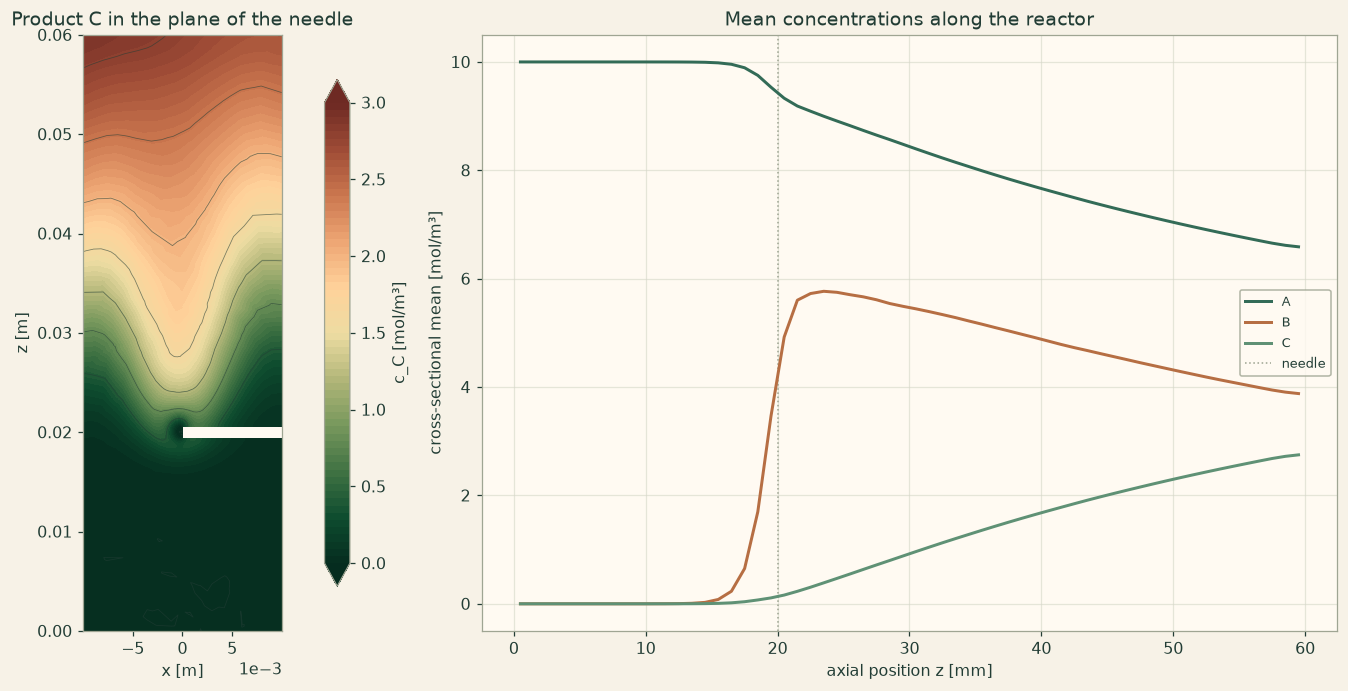
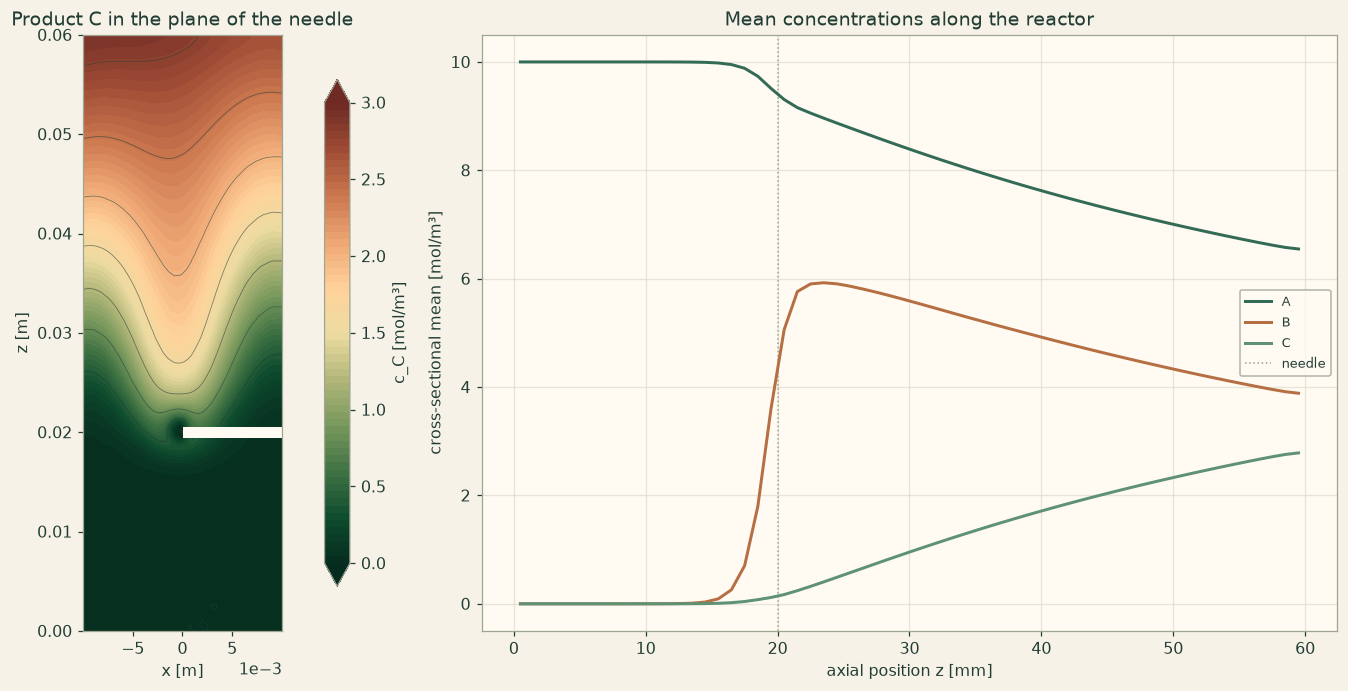
Publish the porous reactor result on 30,026 tetrahedra

diff --git a/examples/notebooks/porous_catalytic_reactor_injection_needle.html b/examples/notebooks/porous_catalytic_reactor_injection_needle.html
@@ -22,7 +22,7 @@
 <div class="layout">
 <details class="menu"><summary>Menu</summary><nav class="side" aria-label="Documentation"><a class="" href="../../index.html">Overview</a><a class="" href="../../quickstart.html">Quickstart</a><p class="group">Examples</p><a class="" href="../../examples/index.html">Example library</a><a class="" href="../../examples/method-swap.html">One model, five discretizations</a><a class="" href="../../examples/cantilever.html">A 3D cantilever</a><a class="" href="../../examples/custom-equation.html">Your own equation</a><p class="group">Guide</p><p class="part">Start here</p><a class="" href="../../guide/how-to-use-this-guide.html"><span class="num"></span> How to use this guide</a><p class="part">Part I · From model to notebook</p><a class="" href="../../guide/1-set-up-the-notebook.html"><span class="num">1</span> Set up the notebook</a><a class="" href="../../guide/2-transient-radiation-and-vibration.html"><span class="num">2</span> Transient radiation and vibration</a><a class="" href="../../guide/3-three-spatial-studies.html"><span class="num">3</span> Three spatial studies</a><a class="" href="../../guide/4-read-visualize-and-export-results.html"><span class="num">4</span> Read, visualize and export results</a><p class="part">Part II · Physics model selection</p><a class="" href="../../guide/5-build-a-first-case-in-each-physics-package/index.html"><span class="num">5</span> Build a first case in each physics package</a><a class="" href="../../guide/6-worked-physics-and-service-recipes/index.html"><span class="num">6</span> Worked physics and service recipes</a><p class="part">Part III · Select and combine numerical methods</p><a class="" href="../../guide/7-numerical-configuration-and-spatial-operators.html"><span class="num">7</span> Numerical configuration and spatial operators</a><a class="" href="../../guide/8-solvers-time-integration-and-coupled-fields.html"><span class="num">8</span> Solvers, time integration and coupled fields</a><a class="" href="../../guide/9-worked-numerical-comparisons/index.html"><span class="num">9</span> Worked numerical comparisons</a><a class="" href="../../guide/10-executable-numerical-recipes/index.html"><span class="num">10</span> Executable numerical recipes</a><a class="" href="../../guide/11-define-and-solve-your-own-equation.html"><span class="num">11</span> Define and solve your own equation</a><a class="" href="../../guide/12-diagnose-a-notebook-result.html"><span class="num">12</span> Diagnose a notebook result</a><a class="" href="../../guide/13-coverage-and-navigation-by-symbol/index.html"><span class="num">13</span> Coverage and navigation by symbol</a><p class="part">API reference</p><a class="" href="../../reference/a-physics-api-reference/index.html"><span class="num">A</span> Physics API reference</a><a class="" href="../../reference/b-numerical-api-reference/index.html"><span class="num">B</span> Numerical API reference</a><a class="" href="../../reference/c-exposed-operator-and-service-namespaces/index.html"><span class="num">C</span> Exposed operator and service namespaces</a><p class="group">Teaching</p><a class="" href="../../teaching/index.html">For instructors</a><a class="" href="../../teaching/course.html">A 14-week lab course</a><a class="" href="../../teaching/exercises.html">Exercise sheets</a><p class="group">Trust and terms</p><a class="" href="../../verification.html">Verification</a><a class="" href="../../plans.html">Plans and licence</a></nav></details>
 <div class="side-wrap"><nav class="side" aria-label="Documentation"><a class="" href="../../index.html">Overview</a><a class="" href="../../quickstart.html">Quickstart</a><p class="group">Examples</p><a class="" href="../../examples/index.html">Example library</a><a class="" href="../../examples/method-swap.html">One model, five discretizations</a><a class="" href="../../examples/cantilever.html">A 3D cantilever</a><a class="" href="../../examples/custom-equation.html">Your own equation</a><p class="group">Guide</p><p class="part">Start here</p><a class="" href="../../guide/how-to-use-this-guide.html"><span class="num"></span> How to use this guide</a><p class="part">Part I · From model to notebook</p><a class="" href="../../guide/1-set-up-the-notebook.html"><span class="num">1</span> Set up the notebook</a><a class="" href="../../guide/2-transient-radiation-and-vibration.html"><span class="num">2</span> Transient radiation and vibration</a><a class="" href="../../guide/3-three-spatial-studies.html"><span class="num">3</span> Three spatial studies</a><a class="" href="../../guide/4-read-visualize-and-export-results.html"><span class="num">4</span> Read, visualize and export results</a><p class="part">Part II · Physics model selection</p><a class="" href="../../guide/5-build-a-first-case-in-each-physics-package/index.html"><span class="num">5</span> Build a first case in each physics package</a><a class="" href="../../guide/6-worked-physics-and-service-recipes/index.html"><span class="num">6</span> Worked physics and service recipes</a><p class="part">Part III · Select and combine numerical methods</p><a class="" href="../../guide/7-numerical-configuration-and-spatial-operators.html"><span class="num">7</span> Numerical configuration and spatial operators</a><a class="" href="../../guide/8-solvers-time-integration-and-coupled-fields.html"><span class="num">8</span> Solvers, time integration and coupled fields</a><a class="" href="../../guide/9-worked-numerical-comparisons/index.html"><span class="num">9</span> Worked numerical comparisons</a><a class="" href="../../guide/10-executable-numerical-recipes/index.html"><span class="num">10</span> Executable numerical recipes</a><a class="" href="../../guide/11-define-and-solve-your-own-equation.html"><span class="num">11</span> Define and solve your own equation</a><a class="" href="../../guide/12-diagnose-a-notebook-result.html"><span class="num">12</span> Diagnose a notebook result</a><a class="" href="../../guide/13-coverage-and-navigation-by-symbol/index.html"><span class="num">13</span> Coverage and navigation by symbol</a><p class="part">API reference</p><a class="" href="../../reference/a-physics-api-reference/index.html"><span class="num">A</span> Physics API reference</a><a class="" href="../../reference/b-numerical-api-reference/index.html"><span class="num">B</span> Numerical API reference</a><a class="" href="../../reference/c-exposed-operator-and-service-namespaces/index.html"><span class="num">C</span> Exposed operator and service namespaces</a><p class="group">Teaching</p><a class="" href="../../teaching/index.html">For instructors</a><a class="" href="../../teaching/course.html">A 14-week lab course</a><a class="" href="../../teaching/exercises.html">Exercise sheets</a><p class="group">Trust and terms</p><a class="" href="../../verification.html">Verification</a><a class="" href="../../plans.html">Plans and licence</a></nav></div>
-<main id="content"><p class="crumbs"><a href="../../index.html">Docs</a> › <a href="../../examples/index.html">Examples</a> › Mixing two feeds in a porous catalytic reactor</p><p class="eyebrow">Reacting flow in porous media · 3D</p><h1>Mixing two feeds in a porous catalytic reactor</h1><p class="lead">A side needle injects the second reactant into a packed bed. Follow the plume downstream and measure how much reacts before leaving the bed.</p><div class="chips"><span>STEP import</span><span>Brinkman flow</span><span>Reactive transport</span><span>Mesh study</span></div><p class="note"><strong>Run locally with OneSimulation.</strong> The example downloads are free. Running them requires an activated runtime. Runtime Alpha 0.2.1a8 · CPython 3.13 on macOS (Apple Silicon), Ubuntu 22.04 (x86-64), and Windows x64. <a href="../../quickstart.html#need">Installation and activation</a> · <a href="../../plans.html">View pilot plans</a>. <a href="../../verification.html#scope">Scope of the reference checks</a>.</p><div class="button-row"><a class="button" href="../../notebooks/porous_catalytic_reactor_injection_needle.ipynb" download>Download the notebook (.ipynb)</a><a class="button light" href="../../notebooks/porous_catalytic_reactor_injection_needle.py" download>Download the script (.py)</a><a class="button light" href="../../notebooks/porous_catalytic_reactor_injection_needle.step" download>Download the geometry (.step)</a><a class="button light" href="../../notebooks/porous_catalytic_reactor_injection_needle_geometry.py" download>Download the geometry script (.py)</a></div><figure><a href="../../figures/library/porous_catalytic_reactor_injection_needle.png" aria-label="Open result plot for Mixing two feeds in a porous catalytic reactor at full size" style="display:inline-block;max-width:100%;cursor:zoom-in"><img loading="lazy" src="../../figures/library/porous_catalytic_reactor_injection_needle.png" alt="Mixing two feeds in a porous catalytic reactor"></a><figcaption>Mixing two feeds in a porous catalytic reactor. Run the notebook to produce its own figures.</figcaption></figure><h2 id="what">What it computes</h2><p>The STEP model resolves the bed around the needle. A prescribed jet at its tip feeds a coupled Brinkman flow and three-species transport model. Two meshes test the volume flow, the species flux balances and the integrated reaction rate.</p><h2 id="checks">What it checks</h2><p>The fine mesh converts 29.34% of reactant A, compared with 29.06% on the coarse mesh and 31.29% for ideal premixed plug flow. The outlet volume flow is within 0.65% of the two feeds. The largest fine-mesh species imbalance is 1.18% of the B feed.</p><h2 id="geometry">Geometry</h2><p>Save the STEP file <a href="../../notebooks/porous_catalytic_reactor_injection_needle.step" download><code>porous_catalytic_reactor_injection_needle.step</code></a> next to the notebook before running it.</p><figure><a href="../../figures/library/porous_catalytic_reactor_injection_needle_geometry.png" aria-label="Open geometry for Mixing two feeds in a porous catalytic reactor at full size" style="display:inline-block;max-width:100%;cursor:zoom-in"><img loading="lazy" src="../../figures/library/porous_catalytic_reactor_injection_needle_geometry.png" alt="Geometry of the example: Mixing two feeds in a porous catalytic reactor"></a><figcaption>Geometry used by the notebook.</figcaption></figure><div class="button-row"><a class="button light" href="../../notebooks/porous_catalytic_reactor_injection_needle.step" download>Download the geometry (.step)</a><a class="button light" href="../../notebooks/porous_catalytic_reactor_injection_needle_geometry.py" download>Download the geometry script (.py)</a></div><h3 id="geometry-script">The geometry script</h3><p>The script <a href="../../notebooks/porous_catalytic_reactor_injection_needle_geometry.py" download><code>porous_catalytic_reactor_injection_needle_geometry.py</code></a> builds the geometry with the CAD objects of OneSimulation and writes the file. Change a dimension there, run it, and run the notebook again.</p><div class="notebook"><div class="nb-code"><pre class="code" data-lang="python"><code><span class="sd">&quot;&quot;&quot;Geometry of the OneSimulation example &quot;Porous catalytic reactor with an injection needle&quot;.</span>
+<main id="content"><p class="crumbs"><a href="../../index.html">Docs</a> › <a href="../../examples/index.html">Examples</a> › Mixing two feeds in a porous catalytic reactor</p><p class="eyebrow">Reacting flow in porous media · 3D</p><h1>Mixing two feeds in a porous catalytic reactor</h1><p class="lead">A side needle injects the second reactant into a packed bed. Follow the plume downstream and measure how much reacts before leaving the bed.</p><div class="chips"><span>STEP import</span><span>Brinkman flow</span><span>Reactive transport</span><span>Mesh study</span></div><p class="note"><strong>Run locally with OneSimulation.</strong> The example downloads are free. Running them requires an activated runtime. Runtime Alpha 0.2.1a8 · CPython 3.13 on macOS (Apple Silicon), Ubuntu 22.04 (x86-64), and Windows x64. <a href="../../quickstart.html#need">Installation and activation</a> · <a href="../../plans.html">View pilot plans</a>. <a href="../../verification.html#scope">Scope of the reference checks</a>.</p><div class="button-row"><a class="button" href="../../notebooks/porous_catalytic_reactor_injection_needle.ipynb" download>Download the notebook (.ipynb)</a><a class="button light" href="../../notebooks/porous_catalytic_reactor_injection_needle.py" download>Download the script (.py)</a><a class="button light" href="../../notebooks/porous_catalytic_reactor_injection_needle.step" download>Download the geometry (.step)</a><a class="button light" href="../../notebooks/porous_catalytic_reactor_injection_needle_geometry.py" download>Download the geometry script (.py)</a></div><figure><a href="../../figures/library/porous_catalytic_reactor_injection_needle.png" aria-label="Open result plot for Mixing two feeds in a porous catalytic reactor at full size" style="display:inline-block;max-width:100%;cursor:zoom-in"><img loading="lazy" src="../../figures/library/porous_catalytic_reactor_injection_needle.png" alt="Mixing two feeds in a porous catalytic reactor"></a><figcaption>Mixing two feeds in a porous catalytic reactor. Run the notebook to produce its own figures.</figcaption></figure><h2 id="what">What it computes</h2><p>The STEP model resolves the bed around the needle. A prescribed jet at its tip feeds a coupled Brinkman flow and three-species transport model. Two meshes test the volume flow, the species flux balances and the integrated reaction rate.</p><h2 id="checks">What it checks</h2><p>Increasing the mesh from 2,928 to 6,147 nodes raises conversion of reactant A from 29.34% to 29.91%. Ideal premixed plug flow gives 31.29%. The fine-mesh outflow matches the two feeds within 0.04%, and the largest species imbalance falls from 1.18% to 0.65% of the B feed.</p><h2 id="geometry">Geometry</h2><p>Save the STEP file <a href="../../notebooks/porous_catalytic_reactor_injection_needle.step" download><code>porous_catalytic_reactor_injection_needle.step</code></a> next to the notebook before running it.</p><figure><a href="../../figures/library/porous_catalytic_reactor_injection_needle_geometry.png" aria-label="Open geometry for Mixing two feeds in a porous catalytic reactor at full size" style="display:inline-block;max-width:100%;cursor:zoom-in"><img loading="lazy" src="../../figures/library/porous_catalytic_reactor_injection_needle_geometry.png" alt="Geometry of the example: Mixing two feeds in a porous catalytic reactor"></a><figcaption>Geometry used by the notebook.</figcaption></figure><div class="button-row"><a class="button light" href="../../notebooks/porous_catalytic_reactor_injection_needle.step" download>Download the geometry (.step)</a><a class="button light" href="../../notebooks/porous_catalytic_reactor_injection_needle_geometry.py" download>Download the geometry script (.py)</a></div><h3 id="geometry-script">The geometry script</h3><p>The script <a href="../../notebooks/porous_catalytic_reactor_injection_needle_geometry.py" download><code>porous_catalytic_reactor_injection_needle_geometry.py</code></a> builds the geometry with the CAD objects of OneSimulation and writes the file. Change a dimension there, run it, and run the notebook again.</p><div class="notebook"><div class="nb-code"><pre class="code" data-lang="python"><code><span class="sd">&quot;&quot;&quot;Geometry of the OneSimulation example &quot;Porous catalytic reactor with an injection needle&quot;.</span>
 
 <span class="sd">Builds a tubular reactor, 20 mm in diameter and 60 mm long, filled with a porous catalyst bed, and</span>
 <span class="sd">the injection needle (1.2 mm in diameter) that enters through the side wall 20 mm behind the inlet</span>
@@ -75,11 +75,11 @@
 <span class="kn">from</span><span class="w"> </span><span class="nn">onesim.visualization</span><span class="w"> </span><span class="kn">import</span> <span class="n">plots</span><span class="p">,</span> <span class="n">theme</span>
 
 <span class="n">theme</span><span class="o">.</span><span class="n">set</span><span class="p">()</span></code></pre></div><div class="nb-md"><h4>Geometry and mesh</h4>
-<p><code>load</code> returns the bed with its named faces. Tetrahedra of 4.5 mm and 3.5 mm, refined towards the needle and down to 0.32 mm and 0.23 mm at its tip, where the injected jet enters; cells with all corners on walls are split so that the Taylor-Hood flow elements stay stable.</p></div><div class="nb-code"><pre class="code" data-lang="python"><code><span class="n">bed</span> <span class="o">=</span> <span class="n">load</span><span class="p">(</span><span class="s2">&quot;porous_catalytic_reactor_injection_needle.step&quot;</span><span class="p">)</span>
+<p><code>load</code> returns the bed with its named faces. Tetrahedra of 3.5 mm and 2 mm, refined towards the needle and down to 0.23 mm and 0.12 mm at its tip, where the injected jet enters; cells with all corners on walls are split so that the Taylor-Hood flow elements stay stable.</p></div><div class="nb-code"><pre class="code" data-lang="python"><code><span class="n">bed</span> <span class="o">=</span> <span class="n">load</span><span class="p">(</span><span class="s2">&quot;porous_catalytic_reactor_injection_needle.step&quot;</span><span class="p">)</span>
 <span class="n">face</span> <span class="o">=</span> <span class="n">bed</span><span class="o">.</span><span class="n">boundaries</span>
 <span class="n">radius</span><span class="p">,</span> <span class="n">length</span> <span class="o">=</span> <span class="n">bed</span><span class="o">.</span><span class="n">size</span><span class="p">[</span><span class="mi">0</span><span class="p">]</span> <span class="o">/</span> <span class="mi">2</span><span class="p">,</span> <span class="n">bed</span><span class="o">.</span><span class="n">size</span><span class="p">[</span><span class="mi">2</span><span class="p">]</span>
 <span class="n">needle_radius</span><span class="p">,</span> <span class="n">needle_position</span> <span class="o">=</span> <span class="mf">0.6e-3</span><span class="p">,</span> <span class="mf">20e-3</span>
-<span class="n">sizes</span> <span class="o">=</span> <span class="p">{</span><span class="s2">&quot;coarse&quot;</span><span class="p">:</span> <span class="p">(</span><span class="mf">4.5e-3</span><span class="p">,</span> <span class="mf">0.95e-3</span><span class="p">,</span> <span class="mf">0.32e-3</span><span class="p">),</span> <span class="s2">&quot;fine&quot;</span><span class="p">:</span> <span class="p">(</span><span class="mf">3.5e-3</span><span class="p">,</span> <span class="mf">0.75e-3</span><span class="p">,</span> <span class="mf">0.23e-3</span><span class="p">)}</span>
+<span class="n">sizes</span> <span class="o">=</span> <span class="p">{</span><span class="s2">&quot;coarse&quot;</span><span class="p">:</span> <span class="p">(</span><span class="mf">3.5e-3</span><span class="p">,</span> <span class="mf">0.75e-3</span><span class="p">,</span> <span class="mf">0.23e-3</span><span class="p">),</span> <span class="s2">&quot;fine&quot;</span><span class="p">:</span> <span class="p">(</span><span class="mf">2.0e-3</span><span class="p">,</span> <span class="mf">0.40e-3</span><span class="p">,</span> <span class="mf">0.12e-3</span><span class="p">)}</span>
 <span class="n">meshes</span> <span class="o">=</span> <span class="p">{</span><span class="n">name</span><span class="p">:</span> <span class="n">TetrahedralMesher</span><span class="p">(</span><span class="n">target_size</span><span class="o">=</span><span class="n">h</span><span class="p">,</span> <span class="n">split_boundary_cells</span><span class="o">=</span><span class="kc">True</span><span class="p">,</span> <span class="n">refinements</span><span class="o">=</span><span class="p">(</span>
     <span class="n">DistanceRefinement</span><span class="p">(</span><span class="n">source</span><span class="o">=</span><span class="n">face</span><span class="o">.</span><span class="n">needle_wall</span><span class="p">,</span> <span class="n">target_size</span><span class="o">=</span><span class="n">hn</span><span class="p">,</span> <span class="n">far</span><span class="o">=</span><span class="mf">2.5e-3</span><span class="p">,</span> <span class="n">far_size</span><span class="o">=</span><span class="n">h</span><span class="p">),</span>
     <span class="n">DistanceRefinement</span><span class="p">(</span><span class="n">source</span><span class="o">=</span><span class="n">face</span><span class="o">.</span><span class="n">needle_tip</span><span class="p">,</span> <span class="n">target_size</span><span class="o">=</span><span class="n">ht</span><span class="p">,</span> <span class="n">far</span><span class="o">=</span><span class="mf">0.85e-3</span><span class="p">,</span> <span class="n">far_size</span><span class="o">=</span><span class="n">hn</span><span class="p">)))</span><span class="o">.</span><span class="n">generate</span><span class="p">(</span><span class="n">bed</span><span class="p">)</span>
@@ -103,7 +103,7 @@
 <span class="n">reaction</span> <span class="o">=</span> <span class="n">ReactionIR</span><span class="p">(</span><span class="s2">&quot;A+B-&gt;C&quot;</span><span class="p">,</span> <span class="p">{</span><span class="s2">&quot;A&quot;</span><span class="p">:</span> <span class="mi">1</span><span class="p">,</span> <span class="s2">&quot;B&quot;</span><span class="p">:</span> <span class="mi">1</span><span class="p">},</span> <span class="p">{</span><span class="s2">&quot;C&quot;</span><span class="p">:</span> <span class="mi">1</span><span class="p">},</span> <span class="p">{</span><span class="s2">&quot;kind&quot;</span><span class="p">:</span> <span class="s2">&quot;constant&quot;</span><span class="p">,</span> <span class="s2">&quot;unit&quot;</span><span class="p">:</span> <span class="s2">&quot;m^3/mol/s&quot;</span><span class="p">,</span> <span class="s2">&quot;value&quot;</span><span class="p">:</span> <span class="n">rate_constant</span><span class="p">})</span>
 <span class="n">results</span> <span class="o">=</span> <span class="p">{}</span>
 <span class="k">for</span> <span class="n">name</span><span class="p">,</span> <span class="n">mesh</span> <span class="ow">in</span> <span class="n">meshes</span><span class="o">.</span><span class="n">items</span><span class="p">():</span>
-    <span class="nb">print</span><span class="p">(</span><span class="sa">f</span><span class="s2">&quot;Solving </span><span class="si">{</span><span class="n">name</span><span class="si">}</span><span class="s2"> mesh with </span><span class="si">{</span><span class="n">mesh</span><span class="o">.</span><span class="n">cell_count</span><span class="si">}</span><span class="s2"> tetrahedra&quot;</span><span class="p">,</span> <span class="n">flush</span><span class="o">=</span><span class="kc">True</span><span class="p">)</span>
+    <span class="nb">print</span><span class="p">(</span><span class="sa">f</span><span class="s2">&quot;Solving </span><span class="si">{</span><span class="n">name</span><span class="si">}</span><span class="s2"> mesh with </span><span class="si">{</span><span class="nb">len</span><span class="p">(</span><span class="n">mesh</span><span class="o">.</span><span class="n">coordinates</span><span class="p">)</span><span class="si">:</span><span class="s2">,</span><span class="si">}</span><span class="s2"> nodes and </span><span class="si">{</span><span class="n">mesh</span><span class="o">.</span><span class="n">cell_count</span><span class="si">:</span><span class="s2">,</span><span class="si">}</span><span class="s2"> tetrahedra&quot;</span><span class="p">,</span> <span class="n">flush</span><span class="o">=</span><span class="kc">True</span><span class="p">)</span>
     <span class="n">flow</span> <span class="o">=</span> <span class="n">IncompressibleNavierStokes</span><span class="p">(</span><span class="n">domain</span><span class="o">=</span><span class="n">bed</span><span class="o">.</span><span class="n">volume</span><span class="p">,</span> <span class="n">material</span><span class="o">=</span><span class="n">water</span><span class="p">,</span> <span class="n">porous_resistance</span><span class="o">=</span><span class="n">viscosity</span> <span class="o">/</span> <span class="n">permeability</span><span class="p">)</span>
     <span class="n">species</span> <span class="o">=</span> <span class="n">SpeciesTransport</span><span class="p">(</span><span class="n">domain</span><span class="o">=</span><span class="n">bed</span><span class="o">.</span><span class="n">volume</span><span class="p">,</span> <span class="n">reactions</span><span class="o">=</span><span class="p">(</span><span class="n">reaction</span><span class="p">,),</span> <span class="n">advection_form</span><span class="o">=</span><span class="s2">&quot;convective&quot;</span><span class="p">,</span>
                                <span class="n">species</span><span class="o">=</span><span class="nb">tuple</span><span class="p">(</span><span class="n">TransportSpecies</span><span class="p">(</span><span class="n">s</span><span class="p">,</span> <span class="n">diffusivity</span><span class="o">=</span><span class="n">dispersion</span><span class="p">)</span> <span class="k">for</span> <span class="n">s</span> <span class="ow">in</span> <span class="p">(</span><span class="s2">&quot;A&quot;</span><span class="p">,</span> <span class="s2">&quot;B&quot;</span><span class="p">,</span> <span class="s2">&quot;C&quot;</span><span class="p">)))</span>

diff --git a/notebooks/porous_catalytic_reactor_injection_needle.py b/notebooks/porous_catalytic_reactor_injection_needle.py
@@ -70,15 +70,15 @@ theme.set()
 
 # ## Geometry and mesh
 #
-# `load` returns the bed with its named faces. Tetrahedra of 4.5 mm and 3.5 mm, refined towards the
-# needle and down to 0.32 mm and 0.23 mm at its tip, where the injected jet enters; cells with all
+# `load` returns the bed with its named faces. Tetrahedra of 3.5 mm and 2 mm, refined towards the
+# needle and down to 0.23 mm and 0.12 mm at its tip, where the injected jet enters; cells with all
 # corners on walls are split so that the Taylor-Hood flow elements stay stable.
 
 bed = load("porous_catalytic_reactor_injection_needle.step")
 face = bed.boundaries
 radius, length = bed.size[0] / 2, bed.size[2]
 needle_radius, needle_position = 0.6e-3, 20e-3
-sizes = {"coarse": (4.5e-3, 0.95e-3, 0.32e-3), "fine": (3.5e-3, 0.75e-3, 0.23e-3)}
+sizes = {"coarse": (3.5e-3, 0.75e-3, 0.23e-3), "fine": (2.0e-3, 0.40e-3, 0.12e-3)}
 meshes = {name: TetrahedralMesher(target_size=h, split_boundary_cells=True, refinements=(
     DistanceRefinement(source=face.needle_wall, target_size=hn, far=2.5e-3, far_size=h),
     DistanceRefinement(source=face.needle_tip, target_size=ht, far=0.85e-3, far_size=hn))).generate(bed)
@@ -111,7 +111,7 @@ jet = lambda x, y, z: np.column_stack((-profile(y*y + (z - needle_position)**2, 
 reaction = ReactionIR("A+B->C", {"A": 1, "B": 1}, {"C": 1}, {"kind": "constant", "unit": "m^3/mol/s", "value": rate_constant})
 results = {}
 for name, mesh in meshes.items():
-    print(f"Solving {name} mesh with {mesh.cell_count} tetrahedra", flush=True)
+    print(f"Solving {name} mesh with {len(mesh.coordinates):,} nodes and {mesh.cell_count:,} tetrahedra", flush=True)
     flow = IncompressibleNavierStokes(domain=bed.volume, material=water, porous_resistance=viscosity / permeability)
     species = SpeciesTransport(domain=bed.volume, reactions=(reaction,), advection_form="convective",
                                species=tuple(TransportSpecies(s, diffusivity=dispersion) for s in ("A", "B", "C")))
